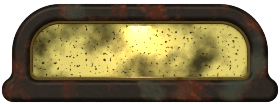
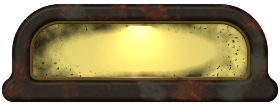
Remnant keys: pressed glass sinks 3 px with its dirt and label; fingers have wiped the middle of the glass clean
Owner: "make the glass move down, like the inside of it is being pressed", "make the middle area of the button kinda
clear because fingers have pressed on it. so the grime should mostly be along the edges", "I need like a clean area
where people mush their fingers on the dust, also makes text more legible".

Claude-Session: https://claude.ai/code/session_01RGPQutSeaqqyNu1NzGyRFA

diff --git a/docs/mockups/skins/tarsine.js b/docs/mockups/skins/tarsine.js
@@ -75,7 +75,7 @@ function icon(name) {
 F.register('tarsine', {
   name: 'Tarsine Remnant', kind: 'Corroded monumental iron rendered in Blender; backlights clogged with dirt', bg: '#110e0b',
   css: { '--s-ink': TA.bone, '--s-dim': TA.dim, '--s-num': TA.light, '--s-body': '"Alegreya Sans SC", sans-serif', '--btn-ink': '#1e160c', '--btn-shadow': '0 1px 0 rgba(255,230,160,0.35)', '--btn-justify': 'center',
-    '--btn-pt': '0px', '--btn-pb': '3px', '--btn-font': '700 16px/1 "Cinzel", serif', '--btn-track': '0.08em', '--btn-case': 'uppercase', '--btn-motion': 'none', '--btn-sink': '1px',
+    '--btn-pt': '0px', '--btn-pb': '3px', '--btn-font': '700 16px/1 "Cinzel", serif', '--btn-track': '0.08em', '--btn-case': 'uppercase', '--btn-motion': 'padding-top 0.06s', '--btn-sink': '1.5px',
     '--tab-font': '700 13px/1 "Cinzel", serif', '--tab-ink': TA.dim, '--tab-ink-on': '#1e160c', '--title-font': '700 17px/1 "Cinzel", serif', '--title-ink': TA.goldHi,
     '--lbl-font': '700 16px/1 "Alegreya Sans SC", sans-serif', '--num-font': '700 24px/1 "Alegreya Sans SC", sans-serif',
     // The strips are 72 px; their open band is the beam's channel of grimy glass, rows 13-59 inside its worn rolled lip

diff --git a/tools/blender/build_ui_tarsine.py b/tools/blender/build_ui_tarsine.py
@@ -55,6 +55,7 @@ FILMS = dict(dim=("#3a3322", "#0a0806", 0.22), low=(PAL["light"], "#2a2412", 0.5
              hot=("#ffe08a", "#4a3a14", 1.45), hearth=("#ffd36a", "#4a3410", 1.25), gold=("#e2c67a", "#3a2c10", 1.05),
              slot=("#3a3020", "#0c0a08", 0.12), lamp_green=("#8ad46a", "#1a3010", 1.8), lamp_yellow=(PAL["light"], "#3a3010", 1.8),
              lamp_red=(PAL["ember"], "#3a1006", 1.8))
+PRESS_MM = 3.0                # how far a pressed key's glass travels, down and in (3 px at the kit's 1x)
 KEY_FILMS = {"dim": "low"}   # a key at rest glows a little (its window is never dark, or its label would not read)
 LAMP = (1.0, 0.78, 0.48)                         # the old lamps' colour
 LAMP_P = float(os.environ.get("LAMP_P", 0.22))   # their power (times the lamp scale), before each lamp's own age
@@ -139,6 +140,28 @@ def dirt(name):
     return k.mat
 
 
+def dirt_key(name, rx_mm=50.0, ry_mm=13.5):
+    """The same caked dirt on a key's glass, wiped from its middle by fingers (owner, 2026-10-31: "make the middle area
+    of the button kinda clear because fingers have pressed on it. so the grime should mostly be along the edges"): an
+    oval rx_mm by ry_mm round the key's middle, ragged at its rim, where only a faint film of dirt is left (owner: "I need like a clean area where people mush their fingers on
+    the dust, also makes text more legible"). The mask runs
+    in the dirt slab's object coordinates (origin at the slot's middle), so it moves with the glass when a key is
+    pressed."""
+    k = NodeKit(name)
+    caked = k.tex("ShaderNodeTexNoise", 48.0, vec=k.warped(20.0, 0.003), **{"Detail": 6.0}).outputs["Fac"]
+    specks = k.tex("ShaderNodeTexNoise", 650.0, **{"Detail": 1.0}).outputs["Fac"]
+    a = k.math("MAXIMUM", k.math("MULTIPLY", band(k, caked, 0.40, 0.66), 0.85), k.math("MULTIPLY", band(k, specks, 0.6, 0.7), 0.85))
+    sep = k.N.new("ShaderNodeSeparateXYZ")
+    k.L.new(k.co, sep.inputs[0])
+    dx = k.math("DIVIDE", sep.outputs["X"], rx_mm * MM)
+    dy = k.math("DIVIDE", sep.outputs["Y"], ry_mm * MM)
+    d = k.math("SQRT", k.math("ADD", k.math("MULTIPLY", dx, dx), k.math("MULTIPLY", dy, dy)))
+    rag = k.tex("ShaderNodeTexNoise", 30.0, **{"Detail": 4.0}).outputs["Fac"]
+    edge = band(k, k.math("ADD", d, k.math("MULTIPLY", k.math("SUBTRACT", rag, 0.5), 0.35)), 0.74, 1.02)
+    k.set(Base_Color="#2a1e12", Roughness=0.95, Alpha=k.math("MULTIPLY", a, k.math("ADD", 0.02, k.math("MULTIPLY", edge, 0.98))))
+    return k.mat
+
+
 def streak(name):
     """A rust streak: rust colour, strongest at its top (the rivet) and fading down, broken by noise."""
     k = NodeKit(name)
@@ -162,7 +185,7 @@ def mats(K, s):
     a = min(7.0, -s["dz"] * 0.6)
     K.m.update(plate=K.mat("iron", lambda: iron("iron")), knob=K.mat("rivet", lambda: iron("rivet", 0.06)),
                bezel=K.mat("gold", lambda: gold("gold")), groove=K.mat("wall", lambda: printed("wall", "#0c0907")),
-               dirt=K.mat("dirt", lambda: dirt("dirt")), streak=K.mat("streak", lambda: streak("streak")),
+               dirt=K.mat("dirt", lambda: dirt("dirt")), dirt_key=K.mat("dirt_key", lambda: dirt_key("dirt_key")), streak=K.mat("streak", lambda: streak("streak")),
                crack=K.mat("crack", lambda: glow("crack", PAL["bone"], 0.35)), cage=K.mat("cage", lambda: printed("cage", "#1a140e")))
     for kind, (col, lo, es) in FILMS.items():
         K.m[kind] = K.mat(kind, lambda col=col, lo=lo, es=es, kind=kind: film_mat(kind, col=col, shadow=lo, es=es, ao_mm=a))
@@ -183,10 +206,16 @@ def piece(name):
         is_key = name.startswith("button.")
         wells = [(KEY_FILMS.get(kind, kind) if is_key else kind, [tuple(p) for p in w]) for kind, w in s["wells"]]
         plate = [tuple(p) for p in s["plate"]]
+        # A pressed key's glass is pushed in: down PRESS_MM and back PRESS_MM, its dirt with it, and the page's label
+        # sinks the same PRESS_MM (skins/tarsine.js --btn-sink), so glass, dirt and letters move as one and the iron stays.
+        press = PRESS_MM if name == "button.pressed" else 0.0
         for (kind, _w), f in zip(wells, s["films"]):  # films measured to fit inside the plate (rule B), and their dirt
             shape = [tuple(p) for p in f]
-            K.film(None, shape=shape, m=K.m[kind])
-            K.slab([shape], K.dz + 0.12, K.dz + 0.16, K.m["dirt"], bevel=0.0).visible_shadow = False
+            glass = [K.film(None, shape=shape, m=K.m[kind], z=K.dz - press),
+                     K.slab([shape], K.dz - press + 0.12, K.dz - press + 0.16, K.m["dirt_key" if is_key else "dirt"], bevel=0.0)]
+            glass[1].visible_shadow = False
+            for ob in glass:
+                ob.location.y -= press * MM
         K.plate([plate] + [w for _k, w in wells])
         lamp = 0
         for kind, w in wells:
